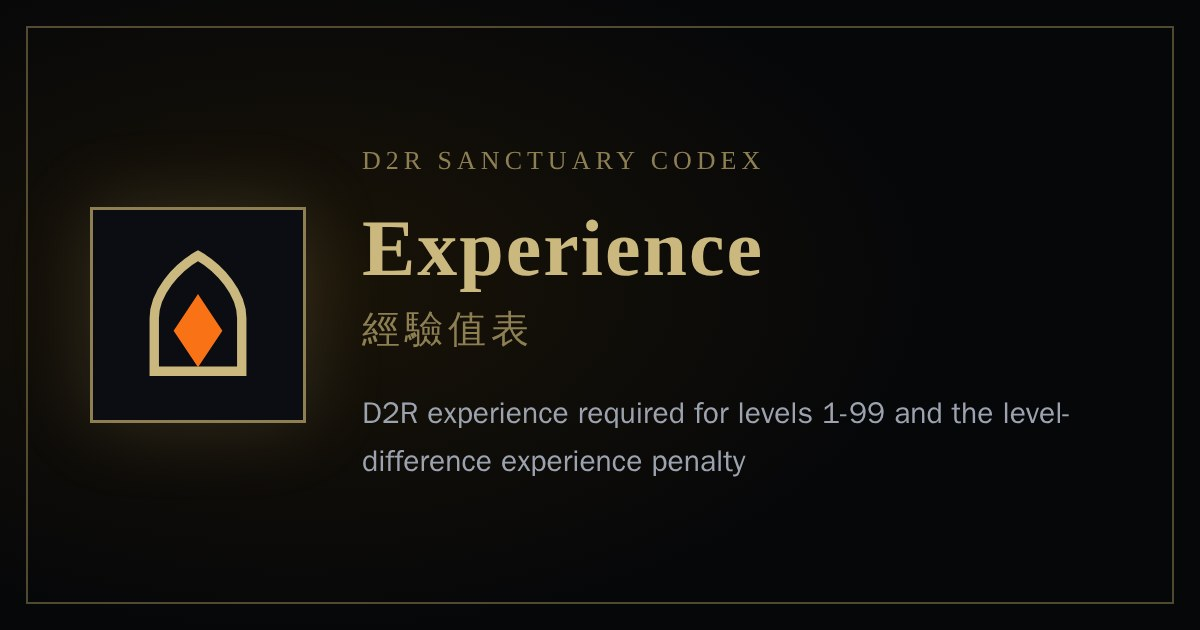
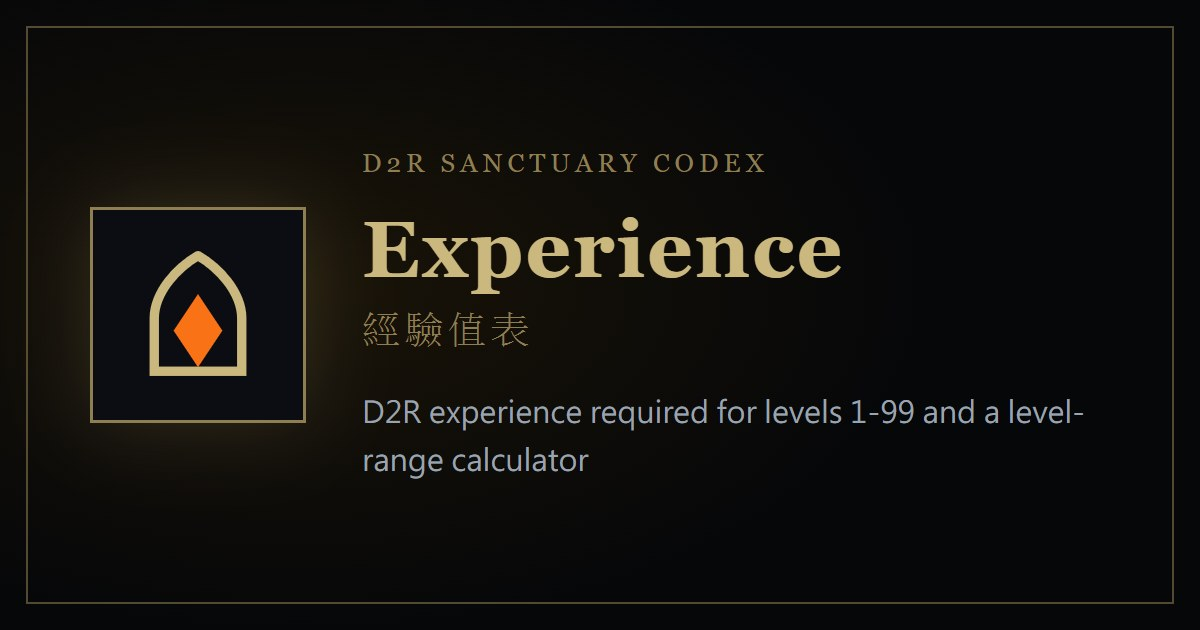
feat: 新增練等場景頁（依角色等級列出經驗不被等級差打折的場景） (#87)
- 新頁 /leveling/（中英）：輸入角色等級、難度與主要傷害元素，列出該難度各場景的怪物等級、等級差經驗倍率與免疫。
- engine/leveling.ts：等級差經驗倍率（暴雪 Arreat Summit「Experience」規則）與 70 級以上固定折扣；場景資料沿用怪物圖鑑的 areas.json／monsters.json，不另建資料。
- 不排「每小時經驗」：沒有怪物密度與跑圖時間資料，頁面明確標示限制。
- 怪物圖鑑與練等頁共用 monsterLabels（元素英文名、免疫標籤色、難度英文名）。
- 接上導覽（新圖示 flag）、路由、sitemap、分享卡、smoke 與英文審計路由；導覽圖示測試 22→23。
- 經驗值表頁的路由描述原先寫「含等級差經驗懲罰計算」但頁面並沒有，改成與實際相符；頁面備註指向新頁。

Changed region(s): [[0.3083, 0.3317, 0.7092, 0.5429], [0.2775, 0.6333, 0.8942, 0.754], [0.2775, 0.2413, 0.6475, 0.2714]]

diff --git a/src/components/codex/LevelingScenes.tsx b/src/components/codex/LevelingScenes.tsx
@@ -1,0 +1,181 @@
+import React, { useMemo, useState } from 'react';
+import { GameIcon } from '../common/GameIcons';
+import { PageHeader } from '../common/PageHeader';
+import { useLanguage } from '../../context/LanguageContext';
+import { AREAS, DIFF_ZH, ELEMS, ELEM_ZH, areaImmunity, type Area, type Diff, type ElemKey } from '../../data/codex/monsters';
+import { lateLevelFactor, levelingRows } from '../../engine/leveling';
+import { DIFF_EN, ELEM_EN, ELEM_TONE } from './monsterLabels';
+
+const MAX_CLVL = 98;
+const KEY_LEVELS = [1, 12, 24, 30, 45, 60, 75, 85, 90, 95];
+const inputCls = 'bg-sanctuary-950/80 border border-sanctuary-800 rounded-xl px-3 py-2 text-xs text-sanctuary-100 font-mono focus:outline-none focus:border-d2-gold/50';
+const clampLevel = (v: string): number => (/^\d+$/.test(v.trim()) ? Math.min(MAX_CLVL, Math.max(1, Number(v.trim()))) : 1);
+const pct = (r: number): string => `${Math.round(r * 100)}%`;
+const btnCls = (on: boolean): string => `px-3 py-1.5 rounded-lg text-xs font-medium transition-all border ${on ? 'bg-d2-gold text-sanctuary-950 font-bold border-d2-gold' : 'text-sanctuary-300 border-sanctuary-800 hover:text-sanctuary-100 hover:bg-sanctuary-800/50'}`;
+
+/** 一個場景在該難度的免疫標籤：選了主要傷害元素就先標它安不安全，其餘有免疫的元素用小標籤 */
+const ImmunityChips: React.FC<{ area: Area; diff: Diff; elem: ElemKey | 'any' }> = ({ area, diff, elem }) => {
+  const { isEn } = useLanguage();
+  const info = useMemo(() => areaImmunity(area, diff), [area, diff]);
+  const total = info.monsters.length;
+  const label = (e: ElemKey) => (isEn ? ELEM_EN[e] : ELEM_ZH[e]);
+  return (
+    <div className="flex flex-wrap gap-1">
+      {elem !== 'any' && (info.immuneCount[elem]
+        ? <span className={`text-[11px] font-mono px-1.5 py-0.5 rounded border font-bold ${ELEM_TONE[elem]}`}>{isEn ? `${label(elem)} Imm ${info.immuneCount[elem]}/${total}` : `${label(elem)}免疫 ${info.immuneCount[elem]}/${total}`}</span>
+        : <span className="text-[11px] font-mono px-1.5 py-0.5 rounded border text-emerald-300 border-emerald-500/30 bg-emerald-500/10">{isEn ? `${label(elem)} clear` : `${label(elem)}全無免疫`}</span>)}
+      {ELEMS.filter((e) => e !== elem && info.immuneCount[e] > 0).map((e) => (
+        <span key={e} className="text-[10px] font-mono px-1.5 py-0.5 rounded border text-sanctuary-400 border-sanctuary-800" title={isEn ? `${info.immuneCount[e]} of ${total} monsters are immune` : `${total} 種怪物中有 ${info.immuneCount[e]} 種免疫`}>
+          {isEn ? `${label(e)} ${info.immuneCount[e]}/${total}` : `${label(e)} ${info.immuneCount[e]}/${total}`}
+        </span>
+      ))}
+    </div>
+  );
+};
+
+export const LevelingScenes: React.FC = () => {
+  const { isEn, t } = useLanguage();
+  const [lvText, setLvText] = useState('60');
+  const [diff, setDiff] = useState<Diff>(1);
+  const [elem, setElem] = useState<ElemKey | 'any'>('any');
+  const [showAll, setShowAll] = useState(false);
+  const clvl = clampLevel(lvText);
+  const late = lateLevelFactor(clvl);
+
+  const rows = useMemo(() => {
+    const all = levelingRows(AREAS, clvl, diff);
+    if (elem === 'any') return all;
+    // 倍率相同時，選的元素有免疫怪物的場景排後面
+    const bad = (r: (typeof all)[number]) => areaImmunity(r.area, diff).immuneCount[elem];
+    return [...all].sort((a, b) => b.ratio - a.ratio || bad(a) - bad(b) || a.area.id - b.area.id);
+  }, [clvl, diff, elem]);
+  const full = rows.filter((r) => r.ratio >= 1);
+  const partial = rows.filter((r) => r.ratio < 1);
+  const shownPartial = showAll ? partial : partial.slice(0, 8);
+
+  const overview = useMemo(() => KEY_LEVELS.map((lv) => ({ lv, counts: ([0, 1, 2] as Diff[]).map((d) => levelingRows(AREAS, lv, d).filter((r) => r.ratio >= 1).length) })), []);
+  const diffName = (d: Diff) => (isEn ? DIFF_EN[d] : DIFF_ZH[d]);
+
+  const renderRow = (r: (typeof rows)[number]) => (
+    <tr key={r.area.id} className="border-t border-sanctuary-800/60 align-top">
+      <td className="py-2 pr-3">
+        <div className="text-sanctuary-100 font-medium">{isEn ? r.area.nameEn : (r.area.name ?? r.area.nameEn)}</div>
+        <div className="text-[11px] font-mono text-sanctuary-500">{isEn ? `Act ${r.area.act}` : `第 ${r.area.act} 章　${r.area.nameEn}`}</div>
+      </td>
+      <td className="py-2 pr-3 font-mono text-sanctuary-300 whitespace-nowrap">Lv {r.mlvl}</td>
+      <td className={`py-2 pr-3 font-mono whitespace-nowrap ${r.ratio >= 1 ? 'text-emerald-300 font-bold' : r.ratio >= 0.5 ? 'text-d2-gold' : 'text-d2-fire'}`}>{pct(r.ratio)}</td>
+      <td className="py-2"><ImmunityChips area={r.area} diff={diff} elem={elem} /></td>
+    </tr>
+  );
+  const head = (
+    <thead><tr className="text-sanctuary-500 text-[11px] font-mono text-left">
+      <th className="font-normal pb-1 pr-3">{t('場景', 'Area')}</th>
+      <th className="font-normal pb-1 pr-3">{t('怪物等級', 'Monster Lv')}</th>
+      <th className="font-normal pb-1 pr-3">{t('經驗倍率', 'XP Ratio')}</th>
+      <th className="font-normal pb-1">{t('免疫（該難度的怪物）', 'Immunities (this difficulty)')}</th>
+    </tr></thead>
+  );
+
+  return (
+    <div className="space-y-6">
+      <PageHeader
+        icon={<GameIcon name="flag" className="w-7 h-7" />}
+        title={t('練等場景', 'Leveling Areas')}
+        desc={t(
+          '輸入角色等級，列出各難度哪些場景的怪物經驗不會被等級差打折，並標出你的主要傷害元素會不會遇到免疫。',
+          'Enter your character level to see which areas keep full per-kill XP in each difficulty, and whether your main damage element runs into immune monsters.',
+        )}
+        tone="text-d2-gold"
+      />
+
+      <section aria-label={t('條件', 'Filters')} className="bg-sanctuary-900/60 p-5 rounded-2xl border border-sanctuary-800 space-y-4">
+        <div className="flex flex-wrap items-center gap-3 text-xs text-sanctuary-300">
+          <label className="flex items-center gap-2">{t('角色等級', 'Character level')}
+            <input type="text" inputMode="numeric" value={lvText} onChange={(e) => setLvText(e.target.value)} aria-label={t('角色等級（1～98）', 'Character level (1-98)')} className={`${inputCls} w-16 text-center`} />
+          </label>
+          <div className="flex flex-wrap gap-1.5" role="group" aria-label={t('常用等級', 'Common levels')}>
+            {KEY_LEVELS.map((lv) => <button key={lv} type="button" onClick={() => setLvText(String(lv))} className={btnCls(clvl === lv)}>{lv}</button>)}
+          </div>
+        </div>
+        <div className="flex flex-wrap items-center gap-2 text-xs text-sanctuary-300" role="group" aria-label={t('難度', 'Difficulty')}>
+          <span className="mr-1">{t('難度', 'Difficulty')}</span>
+          {([0, 1, 2] as Diff[]).map((d) => <button key={d} type="button" onClick={() => setDiff(d)} aria-pressed={diff === d} className={btnCls(diff === d)}>{diffName(d)}</button>)}
+        </div>
+        <div className="flex flex-wrap items-center gap-2 text-xs text-sanctuary-300" role="group" aria-label={t('主要傷害元素', 'Main damage element')}>
+          <span className="mr-1">{t('主要傷害', 'Main damage')}</span>
+          <button type="button" onClick={() => setElem('any')} aria-pressed={elem === 'any'} className={btnCls(elem === 'any')}>{t('不指定', 'Any')}</button>
+          {ELEMS.map((e) => <button key={e} type="button" onClick={() => setElem(e)} aria-pressed={elem === e} className={btnCls(elem === e)}>{isEn ? ELEM_EN[e] : ELEM_ZH[e]}</button>)}
+        </div>
+      </section>
+
+      <section aria-label={t('結果', 'Results')} className="bg-sanctuary-900/60 p-5 rounded-2xl border border-sanctuary-800 space-y-4">
+        <div className="text-sm text-sanctuary-100">
+          {isEn
+            ? <>At Lv <b className="text-d2-gold font-mono">{clvl}</b> in {diffName(diff)}: <b className="text-emerald-300 font-mono">{full.length}</b> areas keep full per-kill XP.</>
+            : <>{clvl} 級在{diffName(diff)}難度：<b className="text-emerald-300 font-mono">{full.length}</b> 個場景的怪物經驗不被等級差打折。</>}
+          {late < 1 && (
+            <span className="block text-xs text-sanctuary-400 mt-1">
+              {isEn ? `At Lv ${clvl} all XP is further multiplied by ${(late * 100).toFixed(2)}% (same in every area, so it does not change the order).` : `${clvl} 級的所有經驗另外再乘 ${(late * 100).toFixed(2)}%（每個場景都一樣，不影響排序）。`}
+            </span>
+          )}
+        </div>
+        {full.length > 0 ? (
+          <div className="overflow-x-auto"><table className="w-full text-xs">{head}<tbody>{full.map(renderRow)}</tbody></table></div>
+        ) : (
+          <p className="text-xs text-sanctuary-400">{t('這個難度沒有場景能拿全額經驗，下面列出倍率最高的幾個。換難度看看。', 'No area in this difficulty gives full XP. The closest ones are listed below; try another difficulty.')}</p>
+        )}
+        {partial.length > 0 && (
+          <div className="space-y-2">
+            <h3 className="text-xs font-bold text-sanctuary-300">{t('經驗被等級差打折的場景（倍率由高到低）', 'Areas with a level-difference penalty (highest ratio first)')}</h3>
+            <div className="overflow-x-auto"><table className="w-full text-xs">{head}<tbody>{shownPartial.map(renderRow)}</tbody></table></div>
+            {partial.length > 8 && (
+              <button type="button" onClick={() => setShowAll(!showAll)} aria-expanded={showAll} className="text-xs text-sanctuary-400 underline">
+                {showAll ? t('只看前 8 個', 'Show top 8 only') : (isEn ? `Show all ${partial.length}` : `顯示全部 ${partial.length} 個`)}
+              </button>
+            )}
+          </div>
+        )}
+      </section>
+
+      <section aria-label={t('各等級速覽', 'Overview by level')} className="bg-sanctuary-900/60 p-5 rounded-2xl border border-sanctuary-800 space-y-3">
+        <h3 className="font-bold text-sanctuary-100">{t('各等級的全額經驗場景數', 'Full-XP areas by level')}</h3>
+        <div className="overflow-x-auto">
+          <table className="text-xs">
+            <thead><tr className="text-sanctuary-500 font-mono text-left">
+              <th className="font-normal pb-1 pr-6">{t('角色等級', 'Level')}</th>
+              {([0, 1, 2] as Diff[]).map((d) => <th key={d} className="font-normal pb-1 pr-6">{diffName(d)}</th>)}
+            </tr></thead>
+            <tbody>
+              {overview.map(({ lv, counts }) => (
+                <tr key={lv} className="border-t border-sanctuary-800/60">
+                  <td className="py-1.5 pr-6 font-mono text-sanctuary-200">{lv}</td>
+                  {counts.map((n, d) => (
+                    <td key={d} className="py-1.5 pr-6">
+                      <button type="button" onClick={() => { setLvText(String(lv)); setDiff(d as Diff); }} className={`font-mono underline-offset-2 hover:underline ${n ? 'text-emerald-300' : 'text-sanctuary-600'}`}>{n}</button>
+                    </td>
+                  ))}
+                </tr>
+              ))}
+            </tbody>
+          </table>
+        </div>
+        <p className="text-[11px] text-sanctuary-500">{t('點數字會套用該等級與難度。0 代表那個難度沒有場景能拿全額經驗。', 'Click a number to apply that level and difficulty. 0 means no area keeps full XP there.')}</p>
+      </section>
+
+      <section aria-label={t('說明與限制', 'Notes and limits')} className="text-[11px] text-sanctuary-500 space-y-1">
+        <p>{t(
+          '經驗倍率依暴雪 Arreat Summit「Experience」頁的等級差規則計算（怪物比角色低 6～9 級依序為 81／62／43／24%，低 10 級以上 5%；高於角色時 25 級以上為角色等級 ÷ 怪物等級；70 級以上另乘固定折扣）。那是 LoD 時期的官方說明，D2R 3.3 沒有在遊戲內逐項實測。',
+          'The ratio follows the level-difference rules on Blizzard\'s Arreat Summit "Experience" page (monsters 6-9 levels below you give 81/62/43/24%, 10+ below 5%; above you at Lv 25+ it is your level / monster level; Lv 70+ gets a further fixed multiplier). That page dates from the LoD era and was not re-measured in-game for D2R 3.3.',
+        )}</p>
+        <p>{t(
+          '場景的怪物等級與怪物清單來自遊戲資料表 levels.txt、monstats.txt，與「怪物圖鑑」同一份資料。',
+          'Area monster levels and monster lists come from the game tables levels.txt and monstats.txt, the same data as the Monsters page.',
+        )}</p>
+        <p>{t(
+          '這不是「每小時經驗」：沒有算每隻怪物的基礎經驗、怪物密度、地圖大小與跑圖時間，所以倍率相同的場景不代表練起來一樣快。也不含冠軍與獨特怪的等級加成、首領場景、組隊分配與死亡懲罰。',
+          'This is not XP per hour: base XP per monster, monster density, map size and run time are not modelled, so areas with the same ratio are not equally fast. Champion and unique level bonuses, boss areas, party XP splits and death penalties are not included either.',
+        )}</p>
+      </section>
+    </div>
+  );
+};

diff --git a/src/engine/leveling.ts b/src/engine/leveling.ts
@@ -1,0 +1,48 @@
+/**
+ * 練等場景：角色等級與場景怪物等級的差距，決定擊殺經驗打幾折。
+ * 規則來自暴雪 Arreat Summit「Experience」頁（資深版 LoD 時期的官方說明，D2R 3.3 沒有在遊戲內逐項實測）：
+ *  - 怪物不高於角色：差 0～5 級全額；低 6、7、8、9 級各為 81、62、43、24%；低 10 級以上固定 5%。
+ *  - 怪物高於角色：角色 25 級以上是「角色等級 ÷ 怪物等級」；25 級以下依表（高 1～5 級全額，高 6、7、8、9 級各為 88、68、36、15%，高 10 級以上 2%）。
+ *  - 角色 70 級以上，算完後再乘一個固定折扣（與場景無關，見 LATE_LEVEL_FACTOR）。
+ * 只算「單隻怪物經驗打幾折」：不含每隻怪物的基礎經驗、怪物密度、跑圖時間，所以不是「每小時經驗」；
+ * 也不含冠軍、獨特怪的等級加成、組隊分配與死亡懲罰。
+ */
+export type LevelingDiff = 0 | 1 | 2;
+
+/** 角色 70～98 級的固定經驗折扣（Arreat Summit）；70 級以下沒有折扣 */
+export const LATE_LEVEL_FACTOR: Record<number, number> = {
+  70: 0.9531, 71: 0.9063, 72: 0.8594, 73: 0.8125, 74: 0.7656, 75: 0.7188, 76: 0.6719, 77: 0.625, 78: 0.5781, 79: 0.5313,
+  80: 0.4844, 81: 0.4375, 82: 0.3906, 83: 0.3438, 84: 0.2969, 85: 0.25, 86: 0.1875, 87: 0.1406, 88: 0.1055, 89: 0.0791,
+  90: 0.0596, 91: 0.0449, 92: 0.0342, 93: 0.0254, 94: 0.0195, 95: 0.0146, 96: 0.0107, 97: 0.0078, 98: 0.0059,
+};
+export const lateLevelFactor = (clvl: number): number => (clvl < 70 ? 1 : LATE_LEVEL_FACTOR[Math.min(98, clvl)]);
+
+/** 怪物比角色低 n 級（n ≥ 6）時的倍率 */
+const BELOW: Record<number, number> = { 6: 0.81, 7: 0.62, 8: 0.43, 9: 0.24 };
+/** 25 級以下的角色遇到比自己高 n 級（n ≥ 6）的怪物時的倍率 */
+const ABOVE_LOW: Record<number, number> = { 6: 0.88, 7: 0.68, 8: 0.36, 9: 0.15 };
+
+/** 等級差的經驗倍率（0～1，不含 70 級以上的固定折扣） */
+export function levelDiffRatio(clvl: number, mlvl: number): number {
+  const d = mlvl - clvl;
+  if (d <= -10) return 0.05;
+  if (d < -5) return BELOW[-d];
+  if (d <= 0) return 1;
+  if (clvl >= 25) return clvl / mlvl;
+  if (d <= 5) return 1;
+  return d >= 10 ? 0.02 : ABOVE_LOW[d];
+}
+
+export interface LevelingArea { id: number; mlvl: (number | null)[]; mon: string[][] }
+export interface LevelingRow<A> { area: A; /** 該難度的場景怪物等級 */ mlvl: number; /** 等級差倍率 */ ratio: number }
+
+/** 該難度有怪物、有怪物等級的場景，依等級差倍率由高到低（相同倍率依場景編號） */
+export function levelingRows<A extends LevelingArea>(areas: readonly A[], clvl: number, diff: LevelingDiff): LevelingRow<A>[] {
+  const out: LevelingRow<A>[] = [];
+  for (const area of areas) {
+    const mlvl = area.mlvl[diff];
+    if (!mlvl || mlvl <= 0 || !area.mon[diff]?.length) continue;
+    out.push({ area, mlvl, ratio: levelDiffRatio(clvl, mlvl) });
+  }
+  return out.sort((a, b) => b.ratio - a.ratio || a.area.id - b.area.id);
+}

diff --git a/src/utils/routes.ts b/src/utils/routes.ts
@@ -14,7 +14,8 @@ export const ROUTES: RouteMeta[] = [
   { id: 'skills', title: '技能寶典', description: 'D2R 全職業技能樹、技能等級數值與協同加成矩陣。', titleEn: 'Skill Trees', descriptionEn: 'Every D2R skill tree with per-level values and a synergy matrix.' },
   { id: 'planner', title: '配裝模擬', description: 'D2R 配裝模擬器：選職業、穿裝備、點技能，即時計算屬性、抗性與傭兵搭配。', titleEn: 'Armory Planner', descriptionEn: 'D2R build planner: pick a class, gear and skills, and see stats, resistances and mercenary setups update live.' },
   { id: 'breakpoints', title: '機制斷點', description: 'D2R 各職業 FCR、FHR、FBR、IAS 斷點表，快速算出需要多少屬性。', titleEn: 'Breakpoints', descriptionEn: 'FCR, FHR, FBR and IAS breakpoint tables for every D2R class.' },
-  { id: 'experience', title: '經驗值表', description: 'D2R 1～99 級升級所需經驗值與等級差經驗懲罰計算。', titleEn: 'Experience', descriptionEn: 'D2R experience required for levels 1-99 and the level-difference experience penalty.' },
+  { id: 'experience', title: '經驗值表', description: 'D2R 1～99 級升級所需經驗值與升級計算。', titleEn: 'Experience', descriptionEn: 'D2R experience required for levels 1-99 and a level-range calculator.' },
+  { id: 'leveling', title: '練等場景', description: 'D2R 依角色等級列出各難度經驗不被等級差打折的場景，並標出主要傷害元素會遇到的免疫。', titleEn: 'Leveling Areas', descriptionEn: 'D2R areas that keep full per-kill XP at your level in each difficulty, with the immunities your main damage element will meet.' },
   { id: 'mercenaries', title: '傭兵寶典', description: 'D2R 四種傭兵的光環、成長與終極裝備搭配。', titleEn: 'Mercenaries', descriptionEn: 'Auras, scaling and best-in-slot gear for the four D2R mercenaries.' },
   { id: 'items', title: '裝備寶典', description: 'D2R 暗金與套裝裝備全覽：依品階、部位、類型分層整理，含屬性與掉落來源。', titleEn: 'Uniques & Sets', descriptionEn: 'All D2R unique and set items, organised by tier, slot and type, with stats and drop sources.' },
   { id: 'runewords', title: '符文之語', description: 'D2R 全部符文之語配方、所需底材與屬性速查（含天梯專屬）。', titleEn: 'Runewords', descriptionEn: 'Every D2R runeword with recipe, allowed bases and stats, including ladder-only ones.' },

diff --git a/src/App.tsx b/src/App.tsx
@@ -26,6 +26,7 @@ const MonsterCompendium = lazy(() => import('./components/codex/MonsterCompendiu
 const AffixCompendium = lazy(() => import('./components/codex/AffixCompendium').then((m) => ({ default: m.AffixCompendium })));
 const ShrineCompendium = lazy(() => import('./components/codex/ShrineCompendium').then((m) => ({ default: m.ShrineCompendium })));
 const ExperienceTable = lazy(() => import('./components/codex/ExperienceTable').then((m) => ({ default: m.ExperienceTable })));
+const LevelingScenes = lazy(() => import('./components/codex/LevelingScenes').then((m) => ({ default: m.LevelingScenes })));
 const AreaGuide = lazy(() => import('./components/codex/AreaGuide').then((m) => ({ default: m.AreaGuide })));
 const MercenaryGuide = lazy(() => import('./components/codex/MercenaryGuide').then((m) => ({ default: m.MercenaryGuide })));
 const ValuationGuide = lazy(() => import('./components/codex/ValuationGuide').then((m) => ({ default: m.ValuationGuide })));
@@ -304,6 +305,7 @@ const AppContent: React.FC = () => {
         {activeTab === 'affixes' && <AffixCompendium initialQuery={targetQuery} />}
         {activeTab === 'shrines' && <ShrineCompendium initialQuery={targetQuery} />}
         {activeTab === 'experience' && <ExperienceTable />}
+        {activeTab === 'leveling' && <LevelingScenes />}
         {activeTab === 'patches' && <PatchNotes onOpenItem={(tab, id) => handleNavigate(tab, undefined, undefined, undefined, id)} />}
         {activeTab === 'about' && <SourcesPage />}
         {activeTab === 'mercenaries' && (

diff --git a/src/components/codex/MonsterCompendium.tsx b/src/components/codex/MonsterCompendium.tsx
@@ -9,26 +9,9 @@ import {
   AREAS, DIFF_ZH, ELEMS, ELEM_ZH, KIND_ZH, MONSTERS, areaImmunity, areaLevel, areasOfMonster, immunitiesOf, isImmune, resistOf,
   type Area, type Diff, type ElemKey, type Monster,
 } from '../../data/codex/monsters';
+import { DIFF_EN, ELEM_EN, ELEM_TONE } from './monsterLabels';
 
-const ELEM_EN: Record<ElemKey, string> = {
-  physical: 'Phys',
-  magic: 'Mag',
-  fire: 'Fire',
-  lightning: 'Light',
-  cold: 'Cold',
-  poison: 'Pois',
-};
-
-const ELEM_TONE: Record<ElemKey, string> = {
-  physical: 'text-sanctuary-200 border-sanctuary-600 bg-sanctuary-700/40',
-  magic: 'text-d2-magic border-d2-magic/40 bg-d2-magic/10',
-  fire: 'text-d2-fire border-d2-fire/40 bg-d2-fire/10',
-  lightning: 'text-d2-lightning border-d2-lightning/40 bg-d2-lightning/10',
-  cold: 'text-d2-cold border-d2-cold/40 bg-d2-cold/10',
-  poison: 'text-d2-poison border-d2-poison/40 bg-d2-poison/10',
-};
 const KIND_EN: Record<string, string> = { demon: 'Demon', undead: 'Undead', insect: 'Insect', beast: 'Beast', human: 'Human', construct: 'Construct', other: 'Other' };
-const DIFF_EN: Record<Diff, string> = ['Normal', 'Nightmare', 'Hell'];
 const PAGE = 100;
 
 /** 一格抗性：免疫、弱點（負值）、一般數值。顏色只標出「值得注意」的，其餘淡色 */

diff --git a/src/components/codex/monsterLabels.ts b/src/components/codex/monsterLabels.ts
@@ -1,0 +1,22 @@
+import type { Diff, ElemKey } from '../../data/codex/monsters';
+
+/** 怪物圖鑑與練等場景共用的元素、難度英文標籤與免疫標籤色 */
+export const ELEM_EN: Record<ElemKey, string> = {
+  physical: 'Phys',
+  magic: 'Mag',
+  fire: 'Fire',
+  lightning: 'Light',
+  cold: 'Cold',
+  poison: 'Pois',
+};
+
+export const ELEM_TONE: Record<ElemKey, string> = {
+  physical: 'text-sanctuary-200 border-sanctuary-600 bg-sanctuary-700/40',
+  magic: 'text-d2-magic border-d2-magic/40 bg-d2-magic/10',
+  fire: 'text-d2-fire border-d2-fire/40 bg-d2-fire/10',
+  lightning: 'text-d2-lightning border-d2-lightning/40 bg-d2-lightning/10',
+  cold: 'text-d2-cold border-d2-cold/40 bg-d2-cold/10',
+  poison: 'text-d2-poison border-d2-poison/40 bg-d2-poison/10',
+};
+
+export const DIFF_EN: Record<Diff, string> = ['Normal', 'Nightmare', 'Hell'];

diff --git a/src/components/codex/ExperienceTable.tsx b/src/components/codex/ExperienceTable.tsx
@@ -135,8 +135,8 @@ export const ExperienceTable: React.FC = () => {
         </p>
         <p>
           {isEn
-            ? 'Not included: level-difference XP penalty curves, party XP splits, death penalties; game ExpRatio column unverified and omitted.'
-            : '未納入：怪物與角色的等級差造成的經驗修正、組隊分配、死亡懲罰；資料表的 ExpRatio 欄用途未驗證，沒有收錄。'}
+            ? 'Not included: party XP splits, death penalties; game ExpRatio column unverified and omitted. The level-difference XP ratio is on the Leveling Areas page.'
+            : '未納入：組隊分配、死亡懲罰；資料表的 ExpRatio 欄用途未驗證，沒有收錄。怪物與角色的等級差造成的經驗倍率請見「練等場景」頁。'}
         </p>
       </div>
     </div>

diff --git a/src/components/common/gameIconPaths.ts b/src/components/common/gameIconPaths.ts
@@ -50,6 +50,8 @@ export const GAME_ICON_SHAPES = {
   altar: { stroke: ['M4 21h16', 'M6 21v-7h12v7', 'M12 2.5c2.2 3 3.2 4.4 3.2 6.2a3.2 3.2 0 0 1-6.4 0c0-1.8 1-3.200 3.200-6.200Z'] },
   /** 紅門六王：骷髏 */
   skull: { stroke: ['M12 3a8 8 0 0 0-8 8c0 3 1.5 4.7 3 5.7V21h10v-4.3c1.5-1 3-2.700 3-5.700a8 8 0 0 0-8-8Z', 'M10 21v-2.500', 'M14 21v-2.500'], fill: ['M7.500 10h3v3h-3Z', 'M13.500 10h3v3h-3Z'] },
+  /** 練等場景：插在路上的旗幟 */
+  flag: { stroke: ['M6 21V3', 'M6 4h11l-3 4.500 3 4.500H6', 'M3 21h9'] },
 } satisfies Record<string, IconShape>;
 
 export type GameIconName = keyof typeof GAME_ICON_SHAPES;

diff --git a/src/components/layout/navConfig.tsx b/src/components/layout/navConfig.tsx
@@ -88,6 +88,14 @@ export const NAV_GROUPS: NavGroup[] = [
         icon: <GameIcon name="levelup" className={`${ic} text-d2-gold`} />,
       },
       {
+        id: 'leveling',
+        label: '練等場景',
+        labelEn: 'Leveling Areas',
+        desc: '依等級找不被扣經驗的場景',
+        descEn: 'Areas with full XP at your level',
+        icon: <GameIcon name="flag" className={`${ic} text-d2-gold`} />,
+      },
+      {
         id: 'mercenaries',
         label: '傭兵寶典',
         labelEn: 'Mercenaries',
